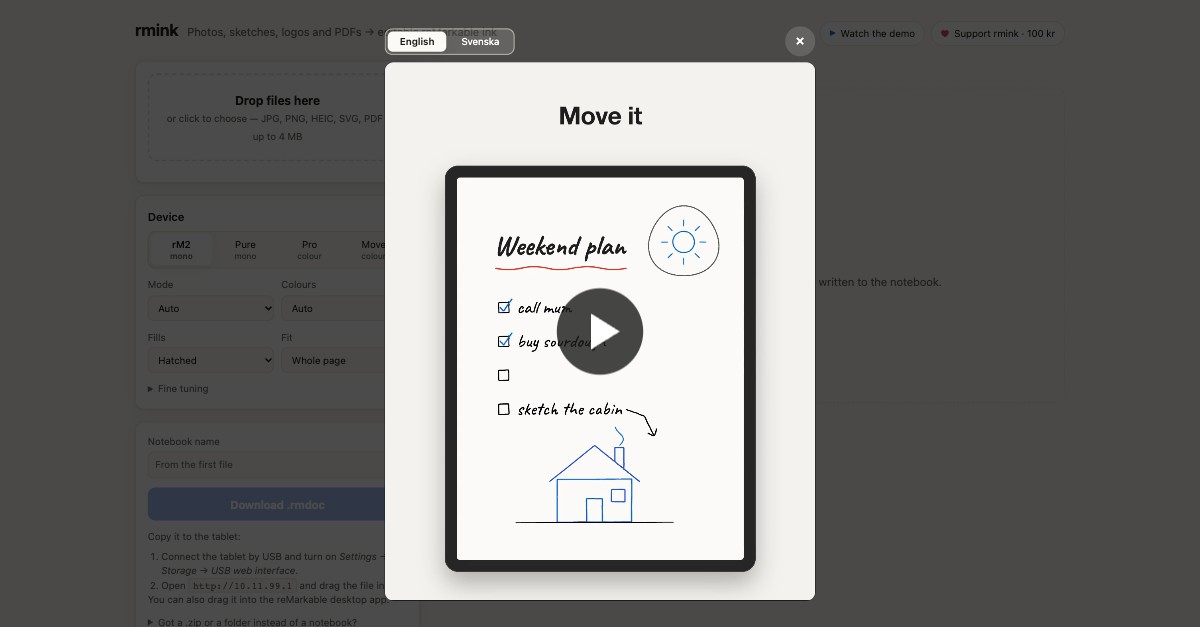
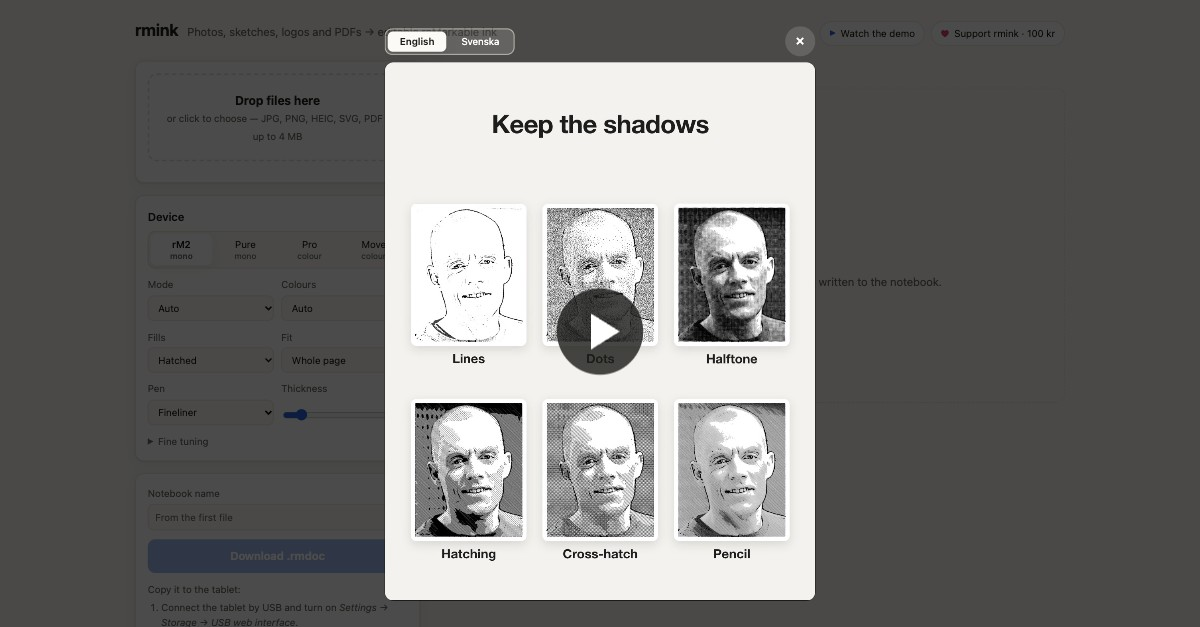
Share images: the shading scene in the demo dialog

diff --git a/deploy/vercel/public/video-sv.html b/deploy/vercel/public/video-sv.html
@@ -11,14 +11,14 @@
 <meta property="og:title" content="rmink: foton och handstil som riktigt reMarkable-bläck">
 <meta property="og:description" content="En 100 sekunder lång demo: släpp in ett foto, ladda ner anteckningsboken, lägg över den till din reMarkable och sudda, flytta och rita som med din egen penna. Gratis och öppen källkod.">
 <meta property="og:url" content="https://rmink.vercel.app/video/sv">
-<meta property="og:image" content="https://rmink.vercel.app/promo/og-sv-01021a32.jpg">
-<meta property="og:image:secure_url" content="https://rmink.vercel.app/promo/og-sv-01021a32.jpg">
+<meta property="og:image" content="https://rmink.vercel.app/promo/og-sv-d0cd4a01.jpg">
+<meta property="og:image:secure_url" content="https://rmink.vercel.app/promo/og-sv-d0cd4a01.jpg">
 <meta property="og:image:type" content="image/jpeg">
 <meta property="og:image:width" content="1200">
 <meta property="og:image:height" content="627">
 <meta property="og:image:alt" content="Dina handskrivna anteckningar, som riktigt reMarkable-bläck">
 <meta name="twitter:card" content="summary_large_image">
-<meta name="twitter:image" content="https://rmink.vercel.app/promo/og-sv-01021a32.jpg">
+<meta name="twitter:image" content="https://rmink.vercel.app/promo/og-sv-d0cd4a01.jpg">
 <script>location.replace("/?demo=sv");</script>
 <style>body { margin: 0; background: #f4f2ec; color: #1d1d1b; font: 17px/1.5 system-ui, sans-serif; padding: 32px 16px; }</style>
 </head>

diff --git a/deploy/vercel/public/video.html b/deploy/vercel/public/video.html
@@ -11,14 +11,14 @@
 <meta property="og:title" content="rmink: photos and handwriting as real reMarkable ink">
 <meta property="og:description" content="A 100-second demo: drop a photo, download the notebook, copy it to your reMarkable, then erase, move and draw on it like your own pen strokes. Free and open source.">
 <meta property="og:url" content="https://rmink.vercel.app/video">
-<meta property="og:image" content="https://rmink.vercel.app/promo/og-en-325f6025.jpg">
-<meta property="og:image:secure_url" content="https://rmink.vercel.app/promo/og-en-325f6025.jpg">
+<meta property="og:image" content="https://rmink.vercel.app/promo/og-en-179de026.jpg">
+<meta property="og:image:secure_url" content="https://rmink.vercel.app/promo/og-en-179de026.jpg">
 <meta property="og:image:type" content="image/jpeg">
 <meta property="og:image:width" content="1200">
 <meta property="og:image:height" content="627">
 <meta property="og:image:alt" content="Your handwritten notes, as real reMarkable ink">
 <meta name="twitter:card" content="summary_large_image">
-<meta name="twitter:image" content="https://rmink.vercel.app/promo/og-en-325f6025.jpg">
+<meta name="twitter:image" content="https://rmink.vercel.app/promo/og-en-179de026.jpg">
 <script>location.replace("/?demo=en");</script>
 <style>body { margin: 0; background: #f4f2ec; color: #1d1d1b; font: 17px/1.5 system-ui, sans-serif; padding: 32px 16px; }</style>
 </head>

diff --git a/promo/make_share.py b/promo/make_share.py
@@ -84,8 +84,8 @@ def page(lang: str) -> Path:
     return path
 
 
-# Frame of the video shown in the share image (the tablet editing scene).
-SHOT_AT = 38.5
+# Frame of the video shown in the share image (the portrait in every shading style).
+SHOT_AT = 62.5
 PLAY_OVERLAY = """
   const v = document.querySelector('#demo video');
   v.pause(); v.muted = true; v.removeAttribute('controls'); v.preload = 'auto';
